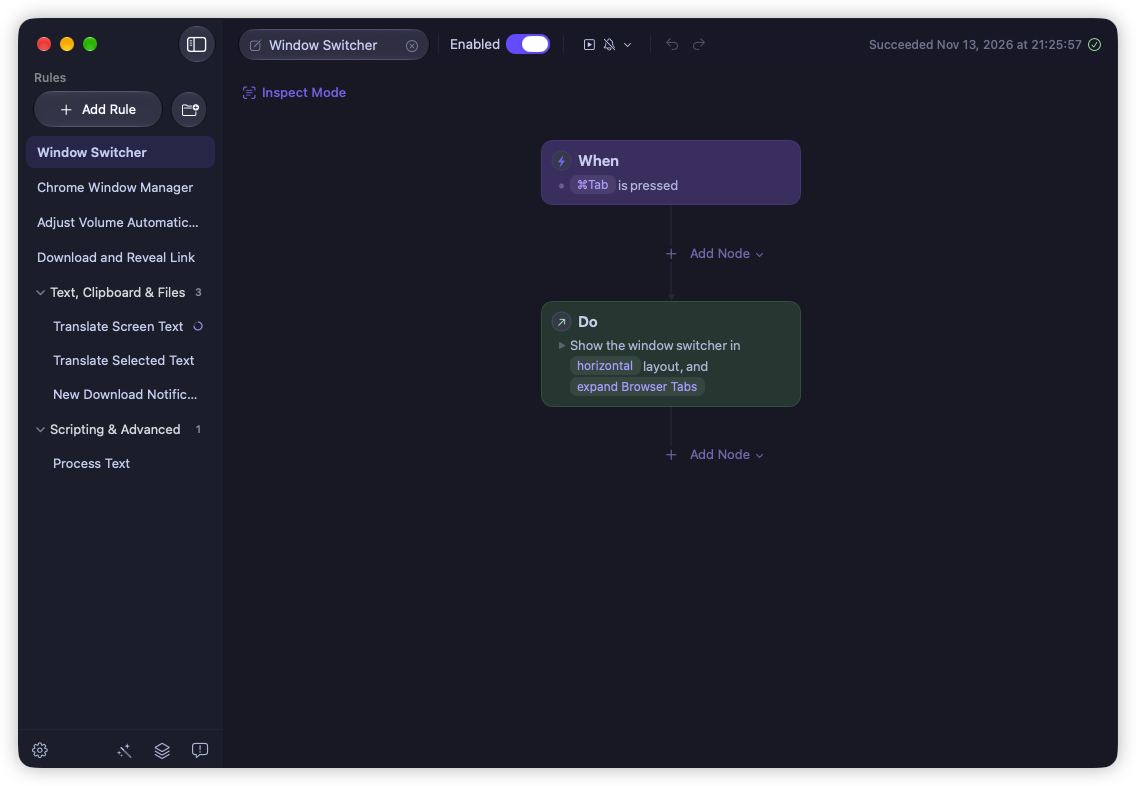
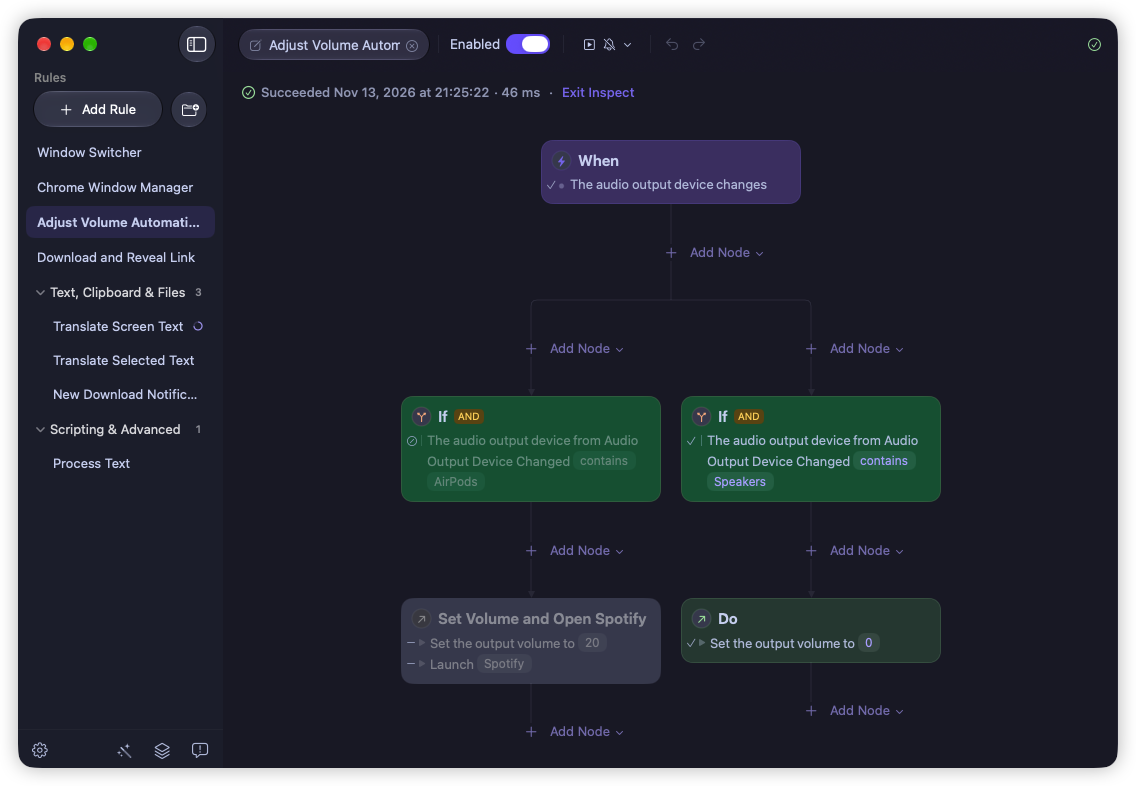
docs: refresh the Rule Gallery preview and examples

diff --git a/scripts/sync_rules.py b/scripts/sync_rules.py
@@ -130,49 +130,55 @@ def repository_readme(catalog: dict) -> str:
 <p align="center">macOS 26+ · {count} official rules · MIT-licensed examples</p>
 
 <p align="center">
-  <a href="https://www.rulr.app/rules/mac-window-switcher/">
+  <a href="https://www.rulr.app/rules/set-volume-audio-device-mac/">
     <picture>
       <source media="(prefers-color-scheme: dark)" srcset="assets/rulr-rule-dark.png">
-      <img src="assets/rulr-rule-light.png" alt="Rulr rule editor showing a keyboard shortcut connected to the Window Switcher action" width="880" height="609">
+      <img src="assets/rulr-rule-light.png" alt="Rulr showing the Audio Device Setup Rule and its execution results" width="880" height="609">
     </picture>
   </a>
 </p>
 
 ## About Rulr
 
-[Rulr](https://www.rulr.app/) is a Mac automation app for building visual Rules:
-choose **when** a task starts, add **if** conditions when needed, and connect the
-actions to **do**. Use Rules for apps, windows, files, text, browser tasks, and
-system settings. You can build a Rule yourself or describe a task to the optional
-AI Builder, then review and adjust the result.
+[Rulr](https://www.rulr.app/) is a visual automation app for macOS. A Rule starts
+with **When** (an event like a shortcut or a device change), optionally checks
+**If** (a condition like the device name), and runs **Do** (actions like setting
+the volume or opening an app). Build a Rule on the canvas, or describe the task to
+the optional AI Builder and review the result before enabling it.
 
-This is the official collection of rule examples and setup guides. Each example
-includes an importable `.rulr` file, configuration instructions, and a link to its
-interactive preview on the website. The Rulr application is developed separately;
-its source code is not included here.
+This is the official collection of Rulr examples. Each rule folder has an
+importable `.rulr` file, setup instructions, and a link to the interactive website
+preview.
+
+## A few rules to try
+
+- 🎬 [Set Volume by Audio Device](rules/set-headphone-volume/) sets different volume levels for headphones and speakers when the audio output changes.
+- 💼 [Window Switcher](rules/window-switcher/) opens a visual picker for your open windows with a keyboard shortcut.
+- ✍ [Paste as Plain Text](rules/insert-plain-text/) pastes clipboard text without its original formatting.
+- 📁 [Organize New Downloads](rules/organize-new-downloads/) moves new downloads into the right folder.
 
 ## Get started
 
 1. [Download Rulr](https://www.rulr.app/download/Rulr.dmg) for macOS 26 or later.
-2. Choose a rule in the [directory below](#rule-directory). Open its website preview and select **Open in Rulr**, or download the `.rulr` file from its folder and open it with the app.
-3. Review the rule, select your own apps, folders, devices, or shortcut where needed, and grant the required permissions before enabling it.
+2. Pick a rule from the [directory](#rule-directory). Choose **Open in Rulr** on the website preview, or download the `.rulr` file and open it in the app.
+3. Review the trigger and actions, choose your own apps, folders, devices, or shortcuts where needed, and grant the permissions listed in the setup guide.
+4. Enable the rule and try it once. Check that it does what you expect before relying on it in your daily workflow.
 
-Some Triggers and Actions require Rulr Pro. Each rule's detail page explains its
-setup and limitations. Importing the examples does not require an AI provider;
-using AI Builder requires your own supported provider connection.
+The setup guide lists any Rulr Pro requirements. You can import examples without
+connecting an AI provider. AI Builder uses your own supported provider connection.
 
 ## Rule directory
 
 {count} rules, organized by their primary Gallery category. Open a rule's name
 for its README and download, or choose **Preview and setup** for the website.''']
-    category_links = [f"[{c['label']}](#{c['id']})" for c in catalog["categories"]
+    category_links = [f"[{c['emoji']} {c['label']}](#{c['id']})" for c in catalog["categories"]
                       if any(r["primaryCategory"] == c["id"] for r in catalog["rules"])]
     lines += ["", " · ".join(category_links)]
     for category in catalog["categories"]:
         entries = sorted((r for r in catalog["rules"] if r["primaryCategory"] == category["id"]), key=lambda r: (r["title"].casefold(), r["slug"]))
         if not entries:
             continue
-        lines += ["", f'<a id="{category["id"]}"></a>', "", f"### {category['label']}", "", "| Rule | What it does | Website |", "| --- | --- | --- |"]
+        lines += ["", f'<a id="{category["id"]}"></a>', "", f"### {category['emoji']} {category['label']}", "", "| Rule | What it does | Website |", "| --- | --- | --- |"]
         for rule in entries:
             lines.append(f"| [{table_text(rule['title'])}](rules/{rule['slug']}/) | {table_text(rule['description'])} | [Preview and setup]({SITE}{rule['page']}) |")
     lines += ["", "## Updates and contributions", "", "The website is the source of truth for rule configurations and setup text. This repository mirrors the published catalog daily and supports manual synchronization. It uses only public website URLs, without access to the private website or app repositories.",

diff --git a/README.md b/README.md
@@ -21,47 +21,53 @@
 <p align="center">macOS 26+ · 100 official rules · MIT-licensed examples</p>
 
 <p align="center">
-  <a href="https://www.rulr.app/rules/mac-window-switcher/">
+  <a href="https://www.rulr.app/rules/set-volume-audio-device-mac/">
     <picture>
       <source media="(prefers-color-scheme: dark)" srcset="assets/rulr-rule-dark.png">
-      <img src="assets/rulr-rule-light.png" alt="Rulr rule editor showing a keyboard shortcut connected to the Window Switcher action" width="880" height="609">
+      <img src="assets/rulr-rule-light.png" alt="Rulr showing the Audio Device Setup Rule and its execution results" width="880" height="609">
     </picture>
   </a>
 </p>
 
 ## About Rulr
 
-[Rulr](https://www.rulr.app/) is a Mac automation app for building visual Rules:
-choose **when** a task starts, add **if** conditions when needed, and connect the
-actions to **do**. Use Rules for apps, windows, files, text, browser tasks, and
-system settings. You can build a Rule yourself or describe a task to the optional
-AI Builder, then review and adjust the result.
+[Rulr](https://www.rulr.app/) is a visual automation app for macOS. A Rule starts
+with **When** (an event like a shortcut or a device change), optionally checks
+**If** (a condition like the device name), and runs **Do** (actions like setting
+the volume or opening an app). Build a Rule on the canvas, or describe the task to
+the optional AI Builder and review the result before enabling it.
 
-This is the official collection of rule examples and setup guides. Each example
-includes an importable `.rulr` file, configuration instructions, and a link to its
-interactive preview on the website. The Rulr application is developed separately;
-its source code is not included here.
+This is the official collection of Rulr examples. Each rule folder has an
+importable `.rulr` file, setup instructions, and a link to the interactive website
+preview.
+
+## A few rules to try
+
+- 🎬 [Set Volume by Audio Device](rules/set-headphone-volume/) sets different volume levels for headphones and speakers when the audio output changes.
+- 💼 [Window Switcher](rules/window-switcher/) opens a visual picker for your open windows with a keyboard shortcut.
+- ✍ [Paste as Plain Text](rules/insert-plain-text/) pastes clipboard text without its original formatting.
+- 📁 [Organize New Downloads](rules/organize-new-downloads/) moves new downloads into the right folder.
 
 ## Get started
 
 1. [Download Rulr](https://www.rulr.app/download/Rulr.dmg) for macOS 26 or later.
-2. Choose a rule in the [directory below](#rule-directory). Open its website preview and select **Open in Rulr**, or download the `.rulr` file from its folder and open it with the app.
-3. Review the rule, select your own apps, folders, devices, or shortcut where needed, and grant the required permissions before enabling it.
+2. Pick a rule from the [directory](#rule-directory). Choose **Open in Rulr** on the website preview, or download the `.rulr` file and open it in the app.
+3. Review the trigger and actions, choose your own apps, folders, devices, or shortcuts where needed, and grant the permissions listed in the setup guide.
+4. Enable the rule and try it once. Check that it does what you expect before relying on it in your daily workflow.
 
-Some Triggers and Actions require Rulr Pro. Each rule's detail page explains its
-setup and limitations. Importing the examples does not require an AI provider;
-using AI Builder requires your own supported provider connection.
+The setup guide lists any Rulr Pro requirements. You can import examples without
+connecting an AI provider. AI Builder uses your own supported provider connection.
 
 ## Rule directory
 
 100 rules, organized by their primary Gallery category. Open a rule's name
 for its README and download, or choose **Preview and setup** for the website.
 
-[Work & Productivity](#work-productivity) · [Study & Research](#study-research) · [Writing & Communication](#writing-communication) · [Daily Life & Personal](#daily-life-personal) · [Files & Organization](#files-organization) · [Web & Browsing](#web-browsing) · [Entertainment & Media](#entertainment-media)
+[💼 Work & Productivity](#work-productivity) · [📚 Study & Research](#study-research) · [✍ Writing & Communication](#writing-communication) · [🌱 Daily Life & Personal](#daily-life-personal) · [📁 Files & Organization](#files-organization) · [🌐 Web & Browsing](#web-browsing) · [🎬 Entertainment & Media](#entertainment-media)
 
 <a id="work-productivity"></a>
 
-### Work & Productivity
+### 💼 Work & Productivity
 
 | Rule | What it does | Website |
 | --- | --- | --- |
@@ -90,7 +96,7 @@ for its README and download, or choose **Preview and setup** for the website.
 
 <a id="study-research"></a>
 
-### Study & Research
+### 📚 Study & Research
 
 | Rule | What it does | Website |
 | --- | --- | --- |
@@ -115,7 +121,7 @@ for its README and download, or choose **Preview and setup** for the website.
 
 <a id="writing-communication"></a>
 
-### Writing & Communication
+### ✍ Writing & Communication
 
 | Rule | What it does | Website |
 | --- | --- | --- |
@@ -132,7 +138,7 @@ for its README and download, or choose **Preview and setup** for the website.
 
 <a id="daily-life-personal"></a>
 
-### Daily Life & Personal
+### 🌱 Daily Life & Personal
 
 | Rule | What it does | Website |
 | --- | --- | --- |
@@ -154,7 +160,7 @@ for its README and download, or choose **Preview and setup** for the website.
 
 <a id="files-organization"></a>
 
-### Files & Organization
+### 📁 Files & Organization
 
 | Rule | What it does | Website |
 | --- | --- | --- |
@@ -178,7 +184,7 @@ for its README and download, or choose **Preview and setup** for the website.
 
 <a id="web-browsing"></a>
 
-### Web & Browsing
+### 🌐 Web & Browsing
 
 | Rule | What it does | Website |
 | --- | --- | --- |
@@ -196,7 +202,7 @@ for its README and download, or choose **Preview and setup** for the website.
 
 <a id="entertainment-media"></a>
 
-### Entertainment & Media
+### 🎬 Entertainment & Media
 
 | Rule | What it does | Website |
 | --- | --- | --- |
